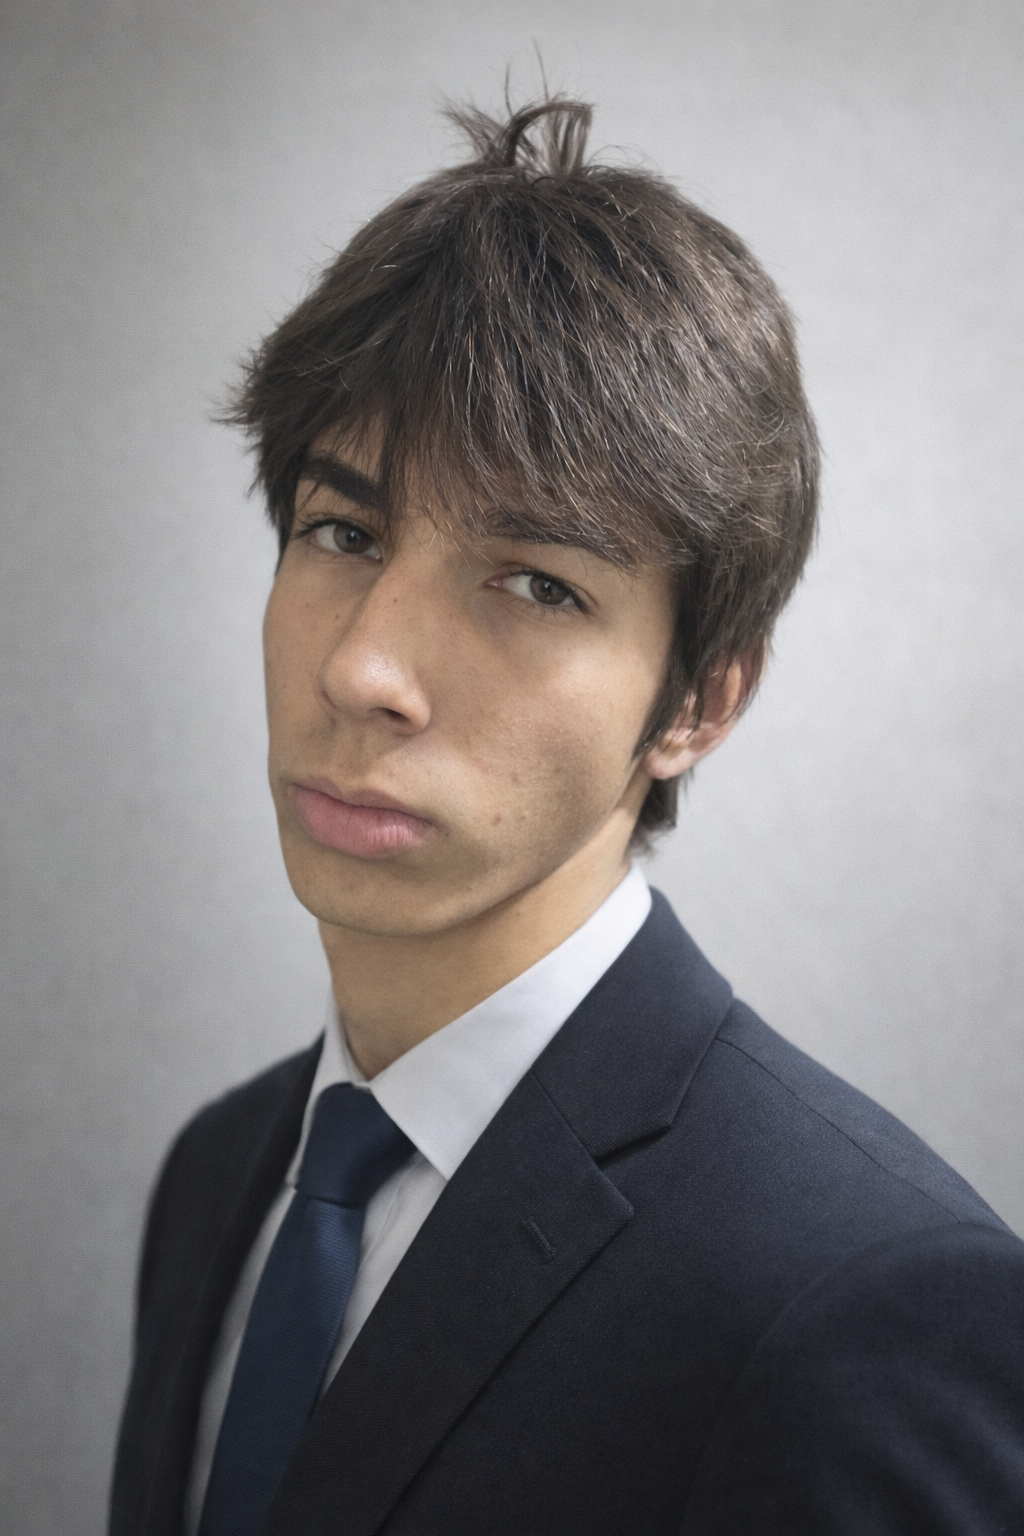
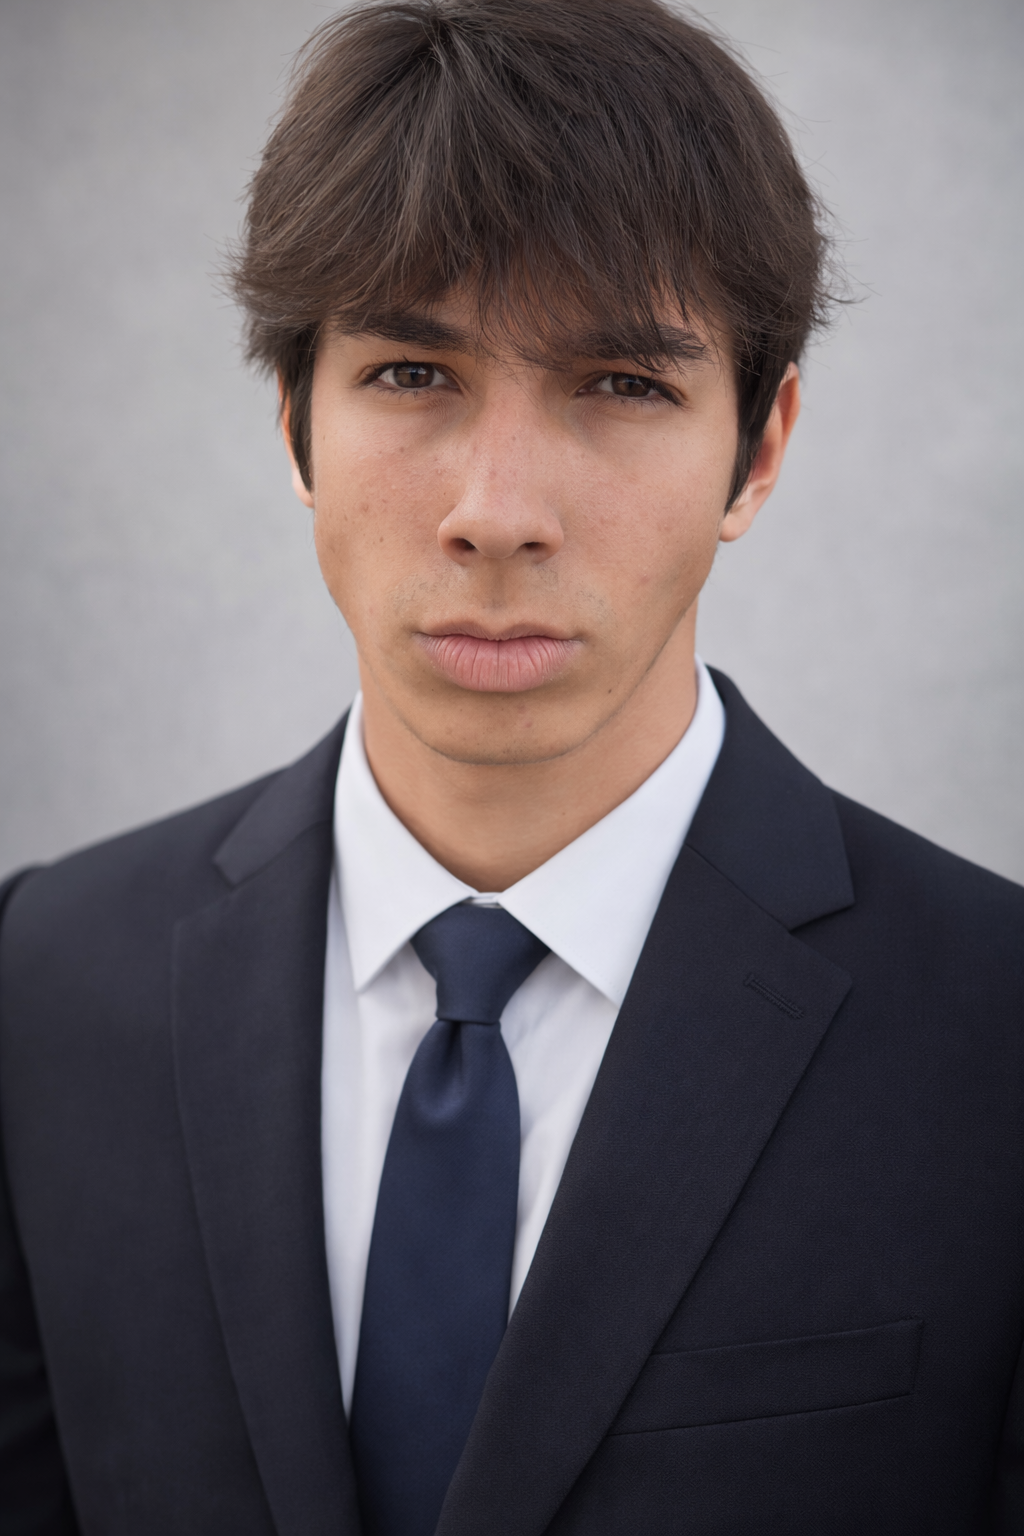
aprimorações

diff --git a/Tela-apresentação/stylea.css b/Tela-apresentação/stylea.css
@@ -398,39 +398,36 @@ a,
   }
 }
 
-.title-tech {
-  display: flex;
-  justify-content: center;
-  align-items: center;
-  position: relative;
-  top: 200px;
-  font-size: 3rem;
-  z-index: 2;
-  text-align: center;
-  margin-bottom: 40px;
-  position: static;
-}
-
 .icons-section {
   position: relative;
   width: 100%;
   min-height: 100vh;
   display: flex;
-  justify-content: flex-end;
+  flex-wrap: wrap;
+  justify-content: space-evenly;
   align-items: center;
-  padding: 20px;
+  padding: 60px 5%; 
   overflow: hidden;
-  gap: 5px;
   z-index: 1;
-  margin-top: 40px;
+  background: url(../img/Group\ 7.png);
+}
+
+.title-tech {
+  width: 100%; 
+  text-align: center;
+  font-size: 3rem;
+  z-index: 2;
+  margin-top: 0;
+  margin-bottom: 60px; 
+  color: #ffffff; 
 }
 
 .cards {
   display: flex;
-  justify-content: center;
-  align-items: center;
-  gap: 150px;
-  margin-right: 150px;
+  flex-direction: row;
+  gap: 20px;
+  margin: 0; 
+  flex-shrink: 1;
 }
 
 .card-content {
@@ -440,18 +437,21 @@ a,
   background: transparent;
   backdrop-filter: blur(20px);
   box-shadow: 0 4px 12px rgba(0, 0, 0, 0.5);
-  width: 400px;
   max-width: 450px;
-  height: 300px;
+  width: 350px; /* Tamanho fixo para não quebrar o layout */
+  height: 280px;
   transition: transform 0.5s ease;
 }
 
 .card-content h3 {
   font-size: 1.39rem;
+  color: #fff;
 }
 
 .card-content p {
   font-size: 1.05rem;
+  color: #fff;
+  opacity: 0.7;
 }
 
 .card-content:hover {
@@ -462,8 +462,7 @@ a,
 }
 
 .imgtech {
-  filter: invert(12%) sepia(94%) saturate(1234%) hue-rotate(140deg)
-    brightness(95%) contrast(92%);
+  filter: invert(100);
   width: 15%;
   height: 40%;
 }
@@ -493,10 +492,10 @@ a,
 }
 
 .imgico {
-  filter: invert(12%) sepia(94%) saturate(1234%) hue-rotate(140deg)
-    brightness(95%) contrast(92%);
+  filter: invert(100) ;
 }
-
+/* invert(12%) sepia(94%) saturate(1234%) hue-rotate(140deg)
+    brightness(95%) contrast(92%) */
 .icon-wrapper img {
   width: 60%;
   height: 60%;
@@ -505,7 +504,7 @@ a,
 }
 
 .icon-wrapper.active {
-  background: white;
+  background: #0d3430;
   box-shadow: 0 20px 40px rgba(0, 0, 0, 0.18);
   transform: scale(1.18) translateY(-8px);
   z-index: 10;
@@ -581,102 +580,9 @@ a,
   width: 99.5vw;
 }
 
-/*.title-equipe {
-    font-size: 3rem;
-    width: 100%;
-    left: 5%;
-    position: static !important;
-    text-align: center;
-    margin: 0 auto 30px auto;
-}
 
-.team-grid {
-    display: flex;
-    gap: 1.5rem;
-    justify-content: center;
-    align-items: center;
-    flex-wrap: nowrap;
-    padding: 2rem;
-    width: 100%;
-    max-width: 1100px;
-    margin: 0 auto;
-    position: static !important;
-    left: auto !important;
-}
-
-.team-card {
-    position: relative;
-    flex: 1 1 250px;
-    max-width: 260px;
-    min-width: 150px;
-    height: 380px;
-    overflow: hidden;
-    border-radius: 16px;
-    box-shadow: 0 10px 30px #10403b44;
-    transition: all 0.4s ease;
-    cursor: pointer;
-}
-
-.team-card:hover {
-    transform: translateY(-12px);
-    box-shadow: 0 20px 50px #10403b44;
-}
-
-.team-card img {
-    width: 100%;
-    height: 100%;
-    object-fit: cover;
-    transition: all 0.45s ease;
-}
-
-.team-card:hover img {
-    transform: scale(1.08);
-    filter: brightness(0.65);
-}
-
-.overlay {
-    position: absolute;
-    inset: 0;
-    background: linear-gradient(to top, #0b2b2777 30%, transparent 70%);
-    opacity: 0.85;
-    transition: opacity 0.4s ease;
-}
-
-.team-card:hover .overlay {
-    opacity: 0.95;
-}
-
-.info {
-    position: absolute;
-    bottom: 0;
-    left: 0;
-    right: 0;
-    padding: 2.2rem 1.6rem 1.6rem;
-    color: white;
-    background: linear-gradient(180deg, transparent 0%, #0b2b2788 40%);
-    transform: translateY(100%);
-    transition: transform 0.5s cubic-bezier(0.4, 0, 0.2, 1);
-}
-
-.team-card:hover .info {
-    transform: translateY(0);
-}
-
-.info h3 {
-    margin: 0 0 0.6rem;
-    font-size: 1.5rem;
-    font-weight: 700;
-    letter-spacing: -0.5px;
-}
-
-.info p {
-    margin: 0;
-    font-size: 1.05rem;
-    opacity: 0.9;
-    font-weight: 400;
-} */
 .team-section {
-  width: 99.5vw;
+  width: 100%;
   min-height: 100vh;
   display: flex;
   align-items: center;
@@ -696,7 +602,7 @@ a,
   align-items: center;
   justify-content: center;
   gap: 40px; /* Reduzi o gap de 90px para 40px */
-  width: 95%; /* Aumentei a largura útil */
+  width: 80%; /* Aumentei a largura útil */
   max-width: 1400px;
   margin: 0 auto;
 }
@@ -723,7 +629,7 @@ a,
 /* FOTO */
 
 .team-photo {
-  width: 420px;
+  width: 340px;
   flex-shrink: 0;
   overflow: hidden;
   border-radius: 16px;
@@ -733,7 +639,7 @@ a,
   border-radius: 16px;
 }
 .team-photo img {
-  width: 100%;
+  width: 90%;
   transform: translateX(-40px);
   transition: transform 0.35s ease;
   box-shadow: 0 20px 40px rgba(0, 0, 0, 0.35);
@@ -808,6 +714,13 @@ a,
   margin: 0;
   text-align: left; /* Garante que o texto não tente se espalhar estranhamente */
   word-wrap: break-word; /* Deixa o bloco de texto bem retangular */
+  font-size: 1.2rem;
+}
+@media screen and (min-width: 769px) {
+  .container {
+    width: 90%;
+    margin: 0 auto;
+  }
 }
 
 .titleferr {

diff --git a/Tela-apresentação/script.js b/Tela-apresentação/script.js
@@ -49,32 +49,32 @@ const members = [
 name:"Alexandre",
 role:"Head of Documentation",
 description:"Responsável pela estruturação e manutenção da documentação técnica do projeto. Atua na organização das metodologias utilizadas, registro dos processos de desenvolvimento e elaboração de relatórios e materiais explicativos. Seu trabalho garante que todas as etapas do projeto estejam bem documentadas, facilitando a compreensão, replicação e evolução da pesquisa.",
-image:"../img/Alex 1.png"
-},
-{
-name:"Eduardo",
-role:"Data Acquisition Lead",
-description:"Responsável pela coleta, seleção e organização dos conjuntos de dados utilizados no projeto. Atua na busca por bases confiáveis de imagens e vídeos, além de realizar a curadoria e preparação dos dados para testes e análises. Seu trabalho é fundamental para garantir qualidade, diversidade e consistência nos dados utilizados pelos métodos de detecção.",
-image:"../img/Nidulu 1.png"
+image:"../img/alex-exec.png"
 },
 {
 name:"Arthur",
 role:"Head of Detection Methodologies",
 description:"Responsável pelo estudo, desenvolvimento e implementação das metodologias de detecção de conteúdo gerado ou manipulado por inteligência artificial. Atua na análise de diferentes abordagens e algoritmos, avaliando sua eficácia e aplicabilidade no contexto do projeto. Seu foco é garantir precisão, confiabilidade e inovação nas técnicas utilizadas.",
-image:"../img/Arthur 1.png"
+image:"../img/thur-exec.png"
 },
 {
-name:"Pedro",
-role:"UX/UI Designer & Lead Frontend",
-description:"Responsável pelo design da interface e pela experiência do usuário da plataforma. Atua no planejamento visual, prototipagem e desenvolvimento do frontend do site, garantindo uma navegação intuitiva, moderna e funcional. Seu trabalho conecta a tecnologia desenvolvida no projeto com uma interface clara e acessível para os usuários.",
-image:"../img/Pedro 1.png"
+name:"Eduardo",
+role:"Data Acquisition Lead",
+description:"Responsável pela coleta, seleção e organização dos conjuntos de dados utilizados no projeto. Atua na busca por bases confiáveis de imagens e vídeos, além de realizar a curadoria e preparação dos dados para testes e análises. Seu trabalho é fundamental para garantir qualidade, diversidade e consistência nos dados utilizados pelos métodos de detecção.",
+image:"../img/nidu-exec.png"
 },
 {
 name:"Iago",
 role:"Project Manager & Lead Backend",
 description:"Responsável pela coordenação geral do projeto e pelo desenvolvimento da arquitetura backend da plataforma. Atua na organização das tarefas da equipe, integração dos sistemas e implementação das funcionalidades que processam e gerenciam os dados. Seu trabalho garante o funcionamento estrutural da aplicação e a integração entre todas as partes do sistema.",
-image:"../img/Iago 2.png"
-}
+image:"../img/iago-exec.png"
+},
+{
+name:"Pedro",
+role:"UX/UI Designer & Lead Frontend",
+description:"Responsável pelo design da interface e pela experiência do usuário da plataforma. Atua no planejamento visual, prototipagem e desenvolvimento do frontend do site, garantindo uma navegação intuitiva, moderna e funcional. Seu trabalho conecta a tecnologia desenvolvida no projeto com uma interface clara e acessível para os usuários.",
+image:"../img/pedrao-exec.png"
+},
 ];
 
 const photo = document.getElementById("memberPhoto");

diff --git a/Tela-apresentação/index-apresentação.html b/Tela-apresentação/index-apresentação.html
@@ -90,8 +90,9 @@
         </div>
 
     </section>
-    <h1 class="title-tech">Nossas Tecnologias</h1>
+    
     <section class="icons-section">
+        <h1 class="title-tech">Nossas Tecnologias</h1>
         <div class="cards">
             <div class="card-content">
                 <img src="../img/code-solid-full.svg" alt="" class="imgtech">
@@ -164,16 +165,17 @@
             <div class="team-icons">
 
                 <i class="fa-solid fa-file-lines icon active" id="icon0"></i>
-                <i class="fa-solid fa-database icon" id="icon1"></i>
-                <i class="fa-solid fa-flask icon" id="icon2"></i>
-                <i class="fa-solid fa-pen-ruler icon" id="icon3"></i>
-                <i class="fa-solid fa-diagram-project icon" id="icon4"></i>
+                <i class="fa-solid fa-search icon" id="icon1"></i>
+                <i class="fa-solid fa-database icon" id="icon2"></i>
+                <i class="fa-solid fa-diagram-project icon" id="icon3"></i>
+                <i class="fa-solid fa-pen-ruler icon" id="icon4"></i>
+                
 
             </div>
 
 
             <div class="team-photo">
-                <img id="memberPhoto" src="../img/Alex 1.png" class="overlay">
+                <img id="memberPhoto" src="../img/alex-exec.png" class="overlay">
             </div>
 
 

diff --git a/Ferramenta-Analise/style.css b/Ferramenta-Analise/style.css
@@ -53,7 +53,7 @@ body::before {
     min-height: 36px;
     font-weight: bold;
     font-family: afacad;
-    margin-left: 450px;
+    
 }
 
 
@@ -71,7 +71,7 @@ body::before {
     box-shadow: 0px 8px 16px 0px rgba(0, 0, 0, 0.2);
     z-index: 1;
     border-radius: 0 0 16px 16px;
-    margin-left: 450px;
+    
     
     
 }
@@ -115,6 +115,7 @@ body::before {
     display: flex;
     justify-content: center;
     margin-bottom: 20px;
+    gap: 450px;
 }
 
 .logo-aida {
@@ -122,8 +123,7 @@ body::before {
     width: 280px; 
     height: auto;
     filter: drop-shadow(0 4px 6px rgba(0, 0, 0, 0.2));
-    margin-right: 450px;
-    margin-left: 450px;
+    
 }
 
 .center-stage {
